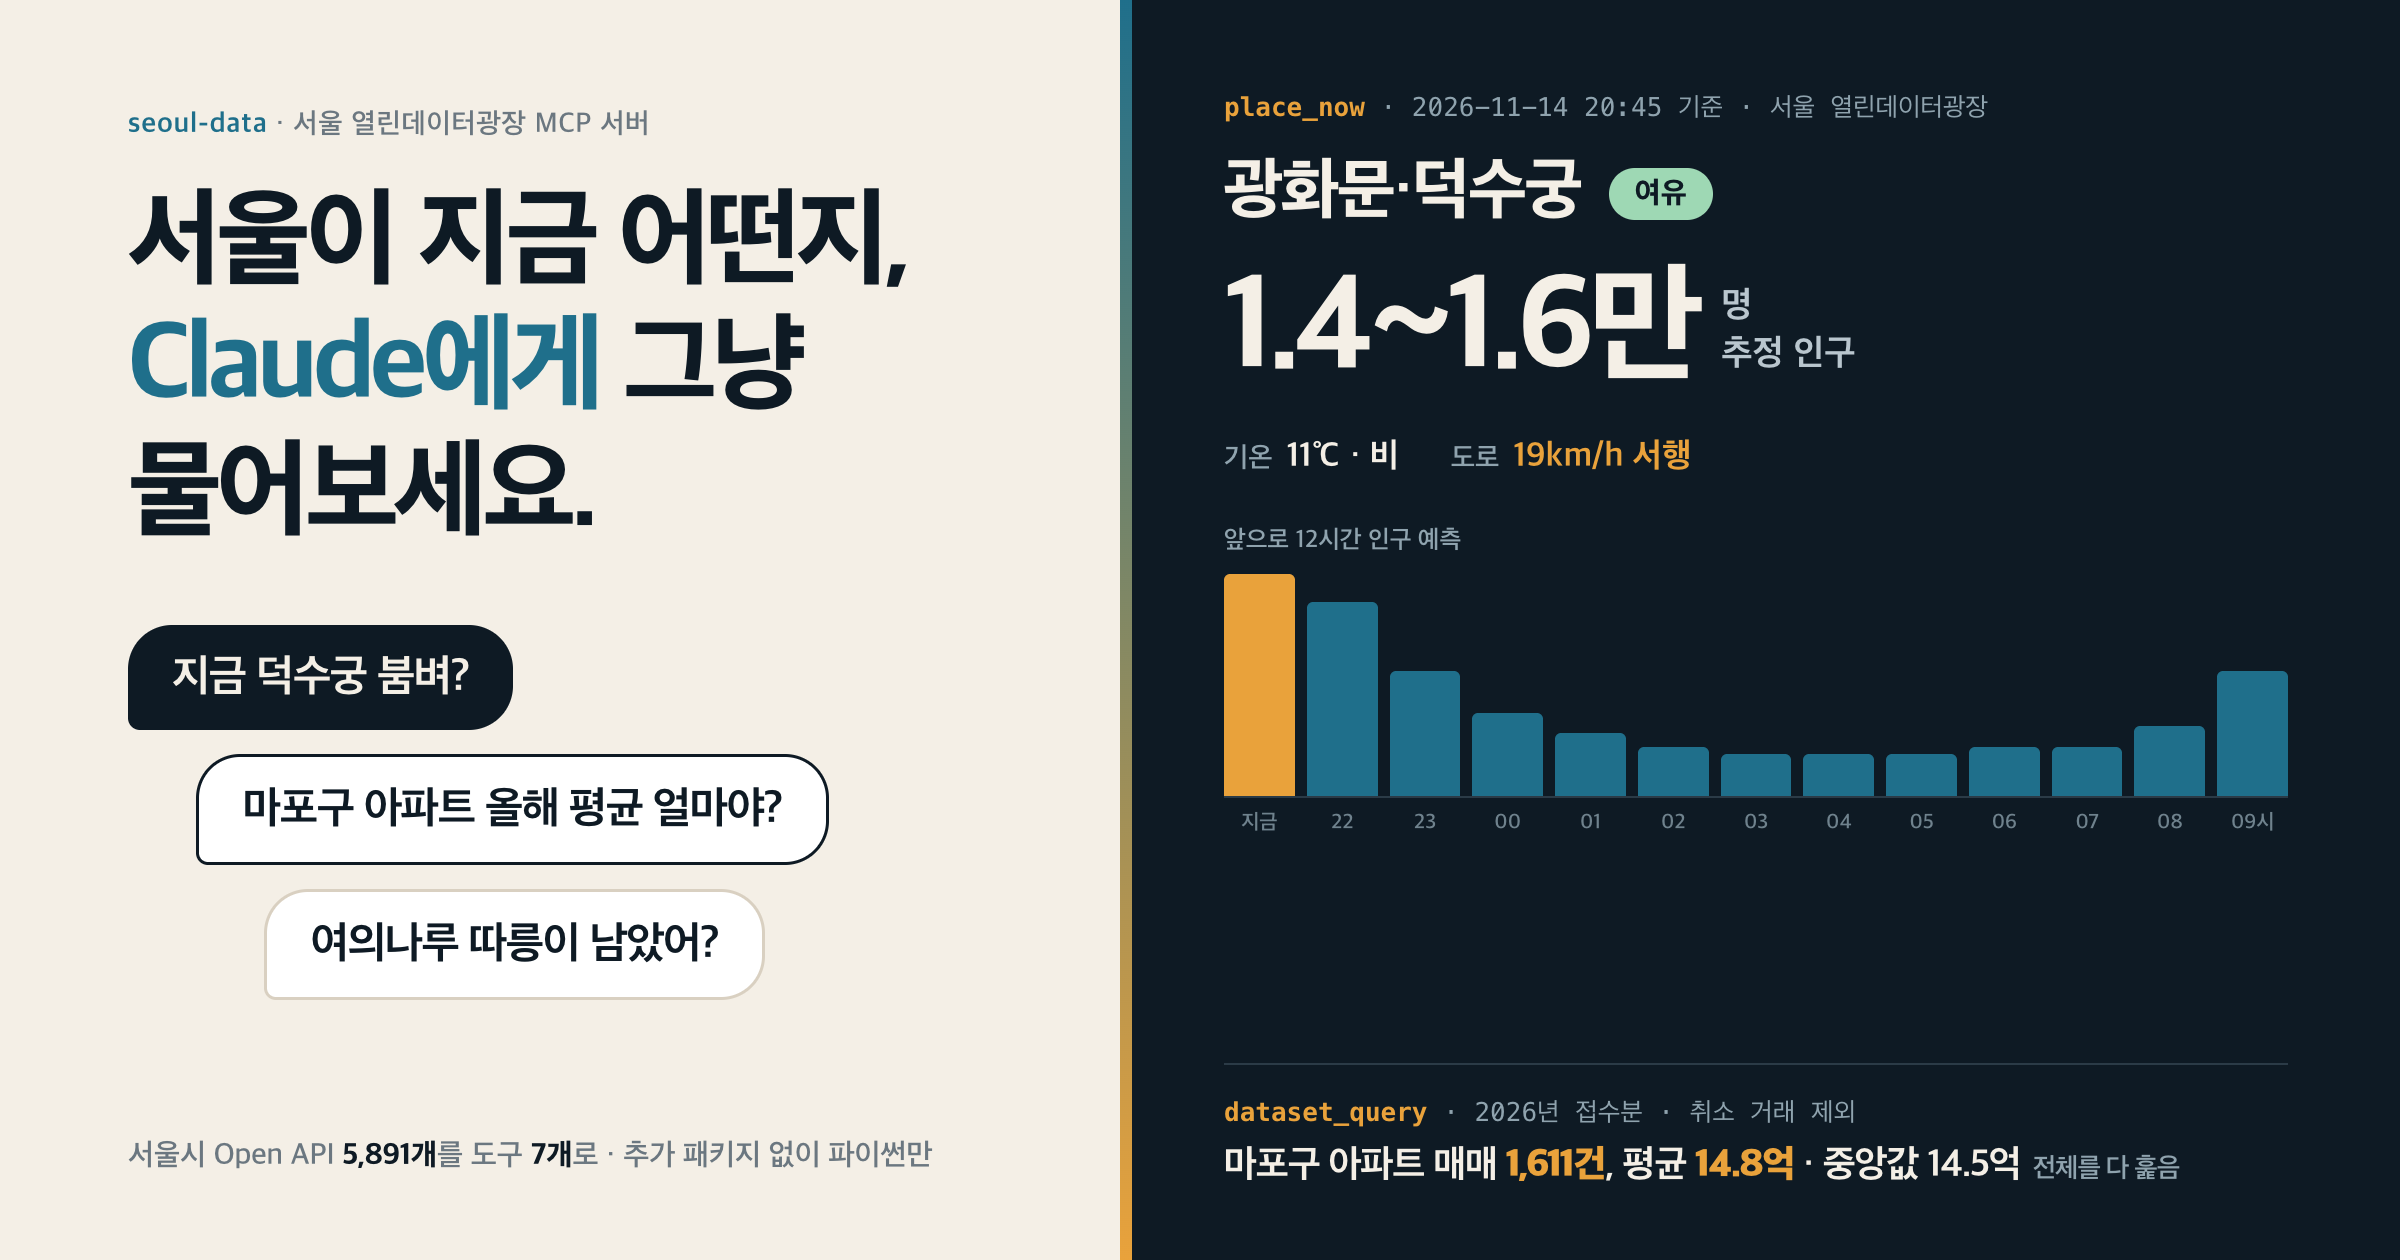
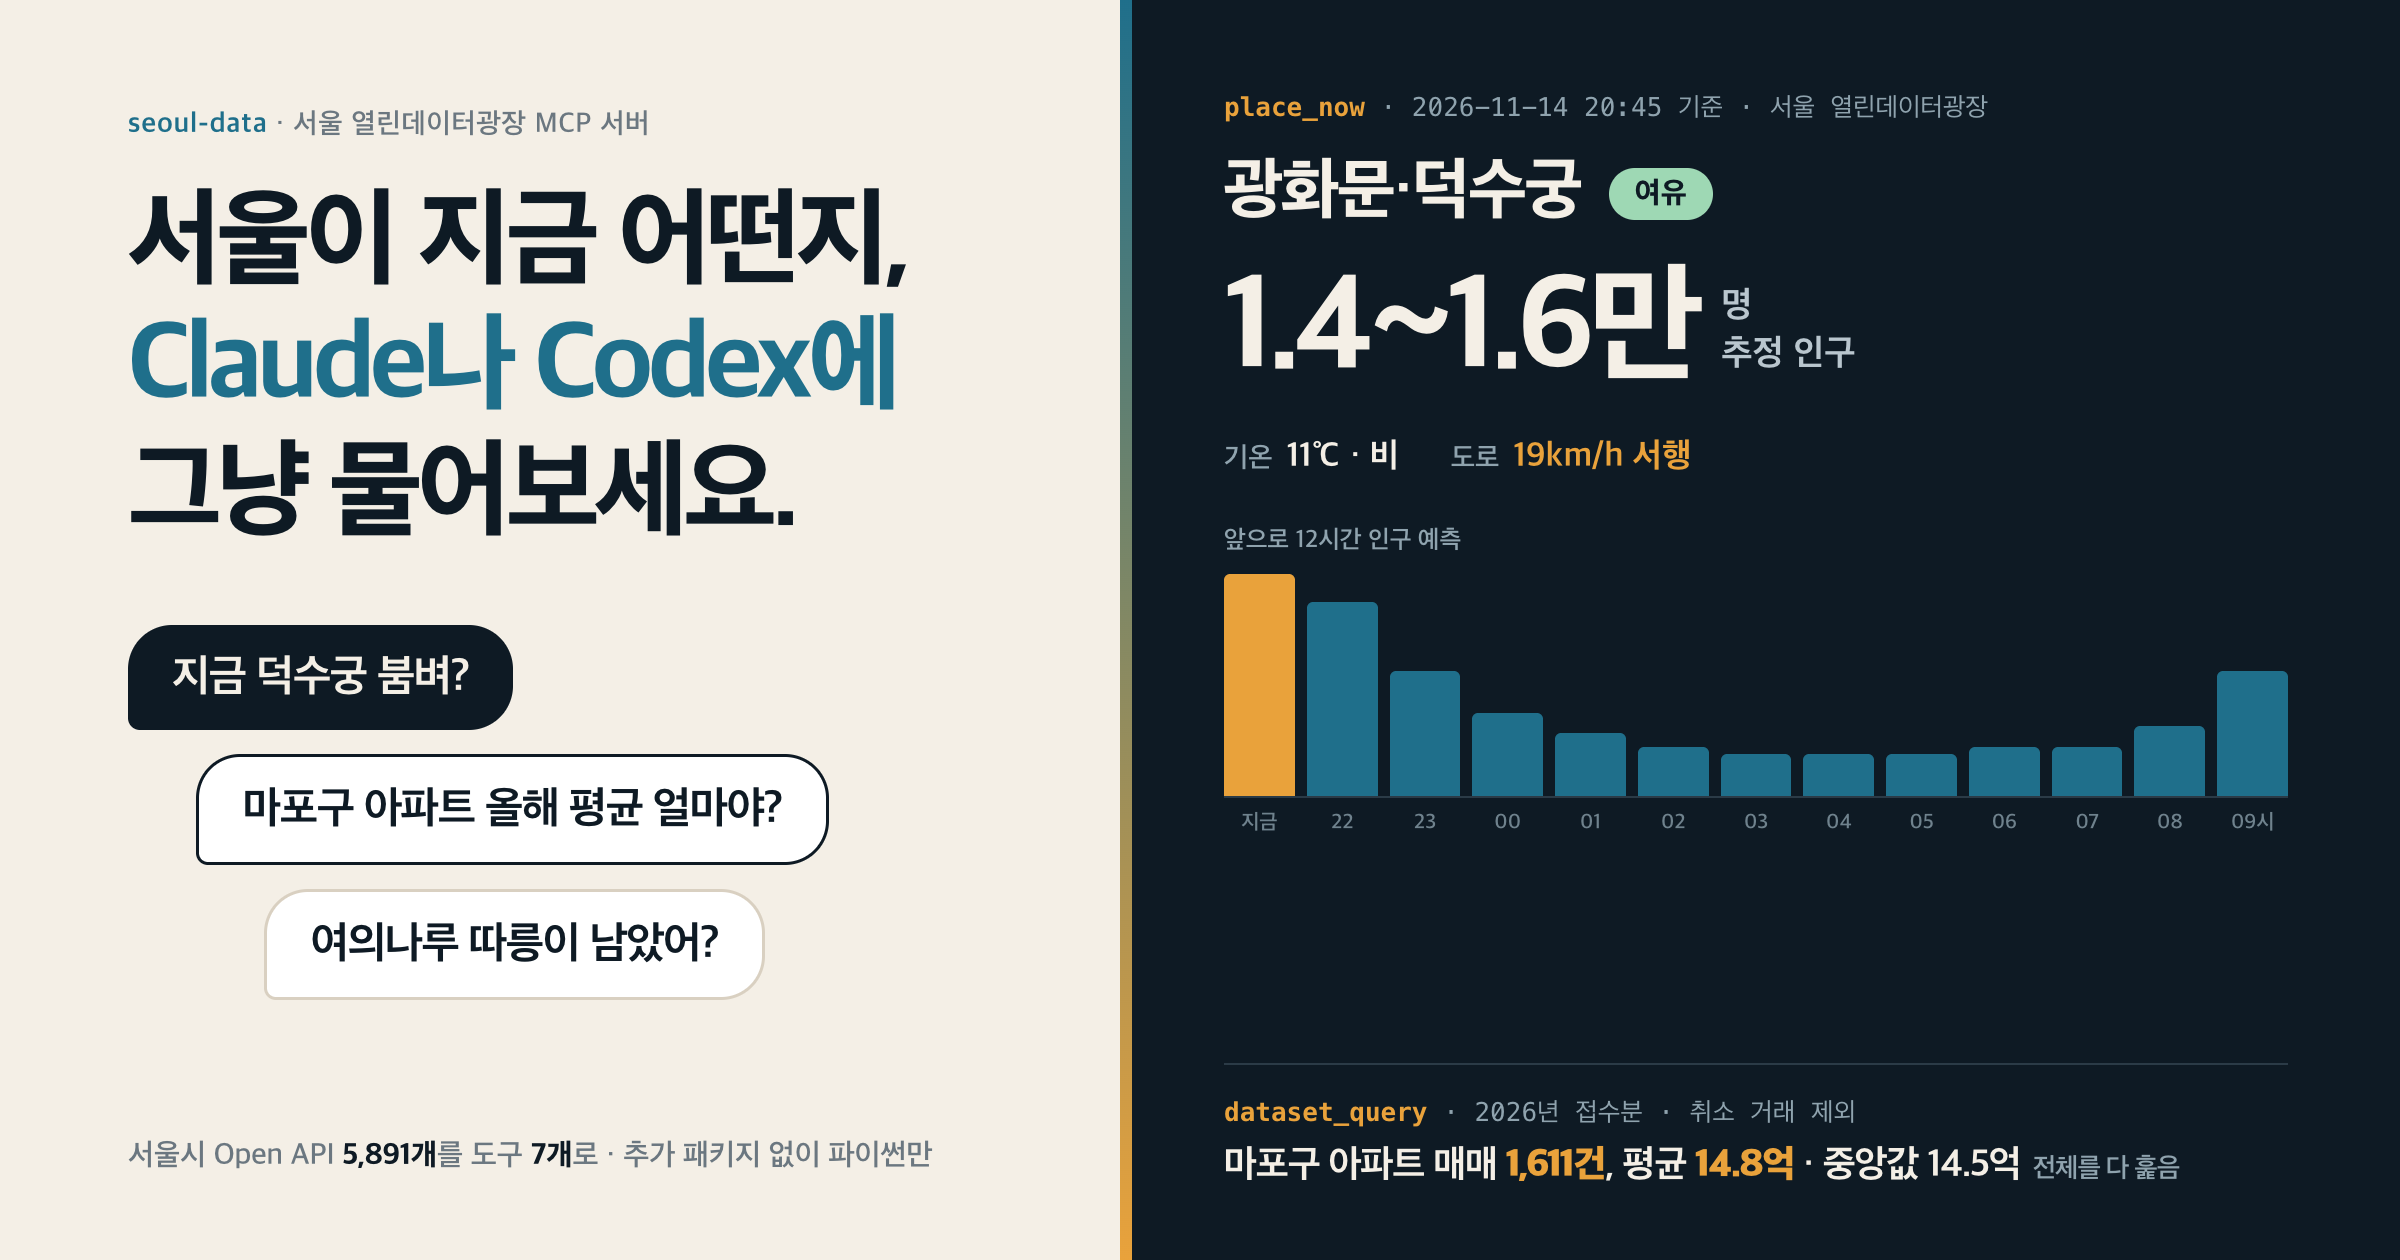
docs: 썸네일 문구를 'Claude나 Codex에 그냥 물어보세요'로

Changed region(s): [[0.0312, 0.2476, 0.375, 0.4333]]

diff --git a/assets/thumbnail.html b/assets/thumbnail.html
@@ -65,7 +65,7 @@
 <div class="sheet">
   <section class="ask">
     <div class="tag">seoul-data <i>· 서울 열린데이터광장 MCP 서버</i></div>
-    <h1>서울이 지금 어떤지,<br><em>Claude에게</em> 그냥<br>물어보세요.</h1>
+    <h1>서울이 지금 어떤지,<br><em>Claude나 Codex에</em><br>그냥 물어보세요.</h1>
     <div class="bubbles">
       <div class="q">지금 덕수궁 붐벼?</div>
       <div class="q b">마포구 아파트 올해 평균 얼마야?</div>
